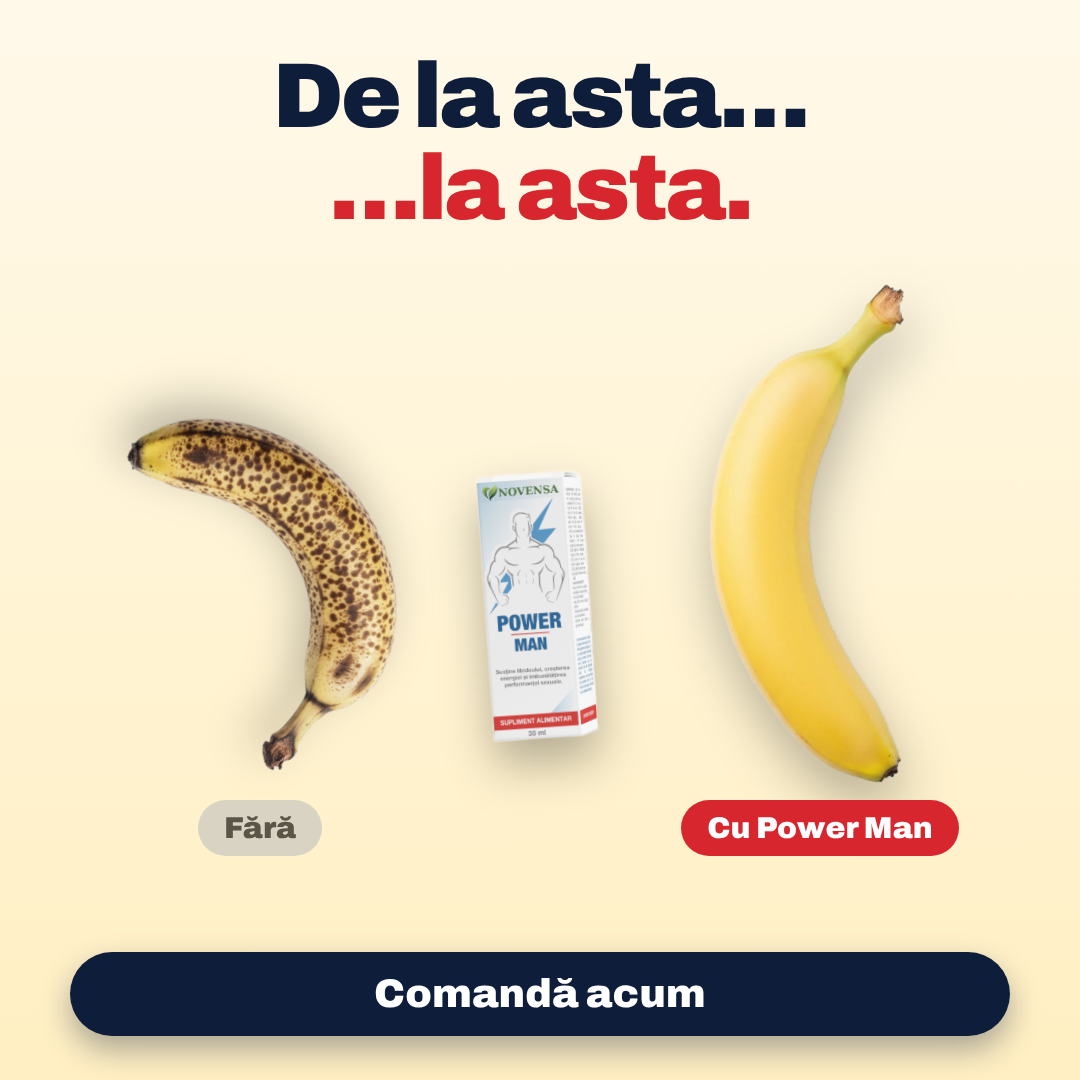
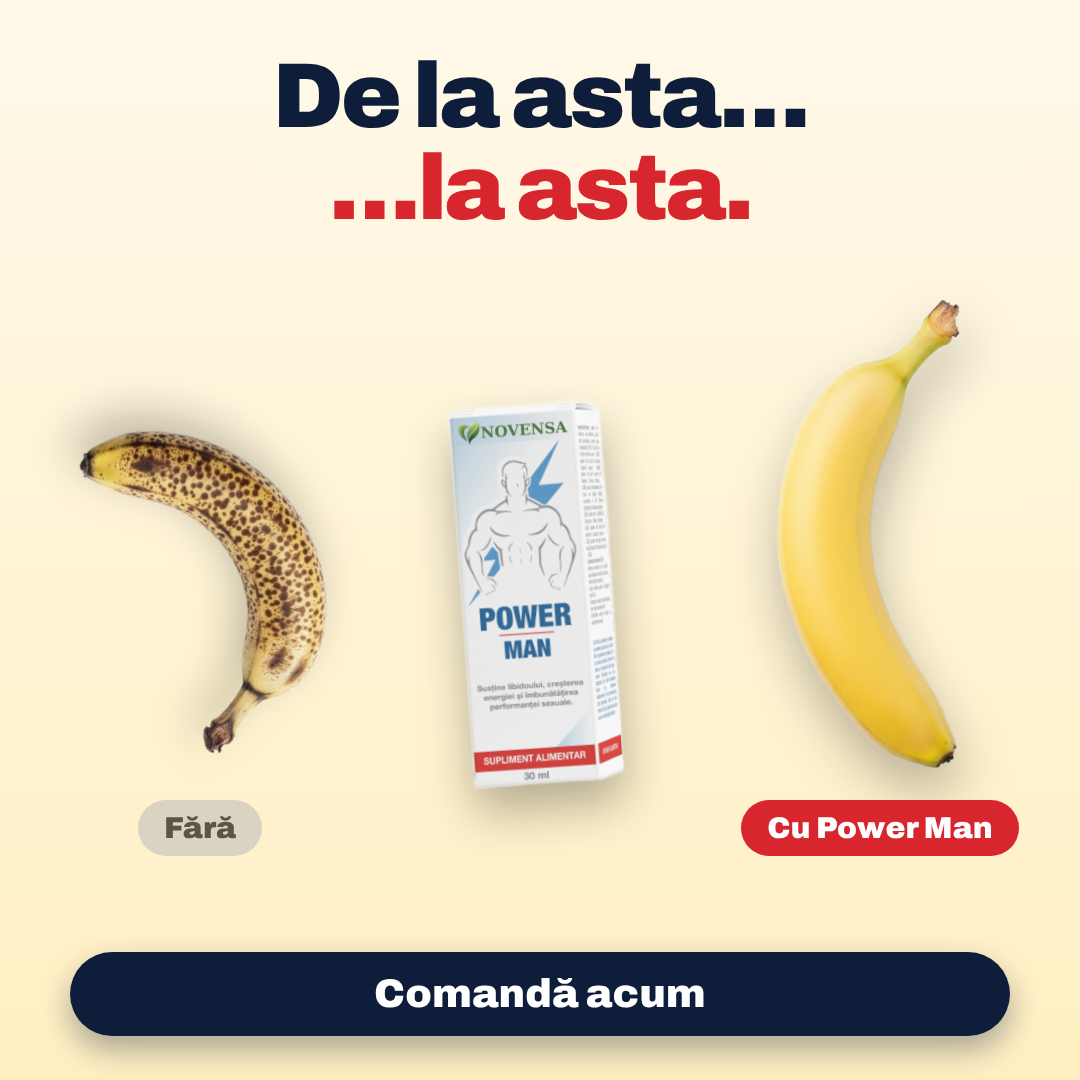
Power Man two-bananas: larger product box
Claude-Session: https://claude.ai/code/session_01C3AciYoWwzN4S9mfha52sF

Changed region(s): [[0.6111, 0.2444, 0.9472, 0.7944], [0.0611, 0.3667, 0.3667, 0.7944], [0.3972, 0.3667, 0.5806, 0.7639]]

diff --git a/brand/power-man/render-doua-banane.js b/brand/power-man/render-doua-banane.js
@@ -11,15 +11,15 @@ const css = `
 html,body{width:1080px;height:1350px;overflow:hidden;color:#0E1E3A;background:linear-gradient(180deg,#FFF9EA 0%,#FFEFC2 100%)}
 .hook{position:absolute;left:0;right:0;top:90px;text-align:center;font:900 112px/1 A;letter-spacing:-3px}
 .hook span{color:#D7262E}
-.col{position:absolute;top:400px;width:440px;height:600px;display:flex;align-items:center;justify-content:center}
-.col.a{left:40px}.col.b{right:40px}
+.col{position:absolute;top:400px;width:400px;height:600px;display:flex;align-items:center;justify-content:center}
+.col.a{left:0}.col.b{right:0}
 .soft{height:430px;transform:rotate(150deg) translateY(-30px);filter:saturate(.75) drop-shadow(0 20px 22px rgba(0,0,0,.25))}
 .firm{height:600px;transform:rotate(-6deg);filter:drop-shadow(0 26px 26px rgba(0,0,0,.28))}
-.lab{position:absolute;top:1010px;width:440px;text-align:center}
-.lab.a{left:40px}.lab.b{right:40px}
+.lab{position:absolute;top:1010px;width:400px;text-align:center}
+.lab.a{left:0}.lab.b{right:0}
 .lab b{display:inline-block;font:900 34px/1 A;padding:16px 30px;border-radius:999px}
 .lab.a b{background:#D9D3C4;color:#5B5547}.lab.b b{background:#D7262E;color:#fff}
-.prod{position:absolute;left:0;right:0;margin:auto;top:640px;height:330px;transform:rotate(-4deg);filter:drop-shadow(0 24px 24px rgba(0,0,0,.3))}
+.prod{position:absolute;left:0;right:0;margin:auto;top:560px;height:500px;transform:rotate(-4deg);filter:drop-shadow(0 24px 24px rgba(0,0,0,.3))}
 .cta{position:absolute;left:70px;right:70px;bottom:70px;text-align:center;background:#0E1E3A;color:#fff;font:900 46px/1 A;padding:28px;border-radius:999px;box-shadow:0 14px 30px rgba(14,30,58,.35)}
 `;
 const html = `<!doctype html><html lang="ro"><head><meta charset="utf-8"><style>${css}</style></head><body>
@@ -34,7 +34,7 @@ const html = `<!doctype html><html lang="ro"><head><meta charset="utf-8"><style>
 const sizes = [
   { id: 'power-man-doua-banane-4x5', h: 1350, css: '' },
   { id: 'power-man-doua-banane-1x1', h: 1080, css: `html,body{height:1080px}.hook{top:50px;font-size:92px}.col{top:280px;height:520px}
-.soft{height:360px}.firm{height:500px}.prod{top:470px;height:280px}.lab{top:800px}.lab b{font-size:30px;padding:13px 26px}.cta{bottom:44px;font-size:40px;padding:22px}` },
+.soft{height:330px}.firm{height:470px}.prod{top:400px;height:400px}.lab{top:800px}.lab b{font-size:30px;padding:13px 26px}.cta{bottom:44px;font-size:40px;padding:22px}` },
 ];
 
 (async () => {
